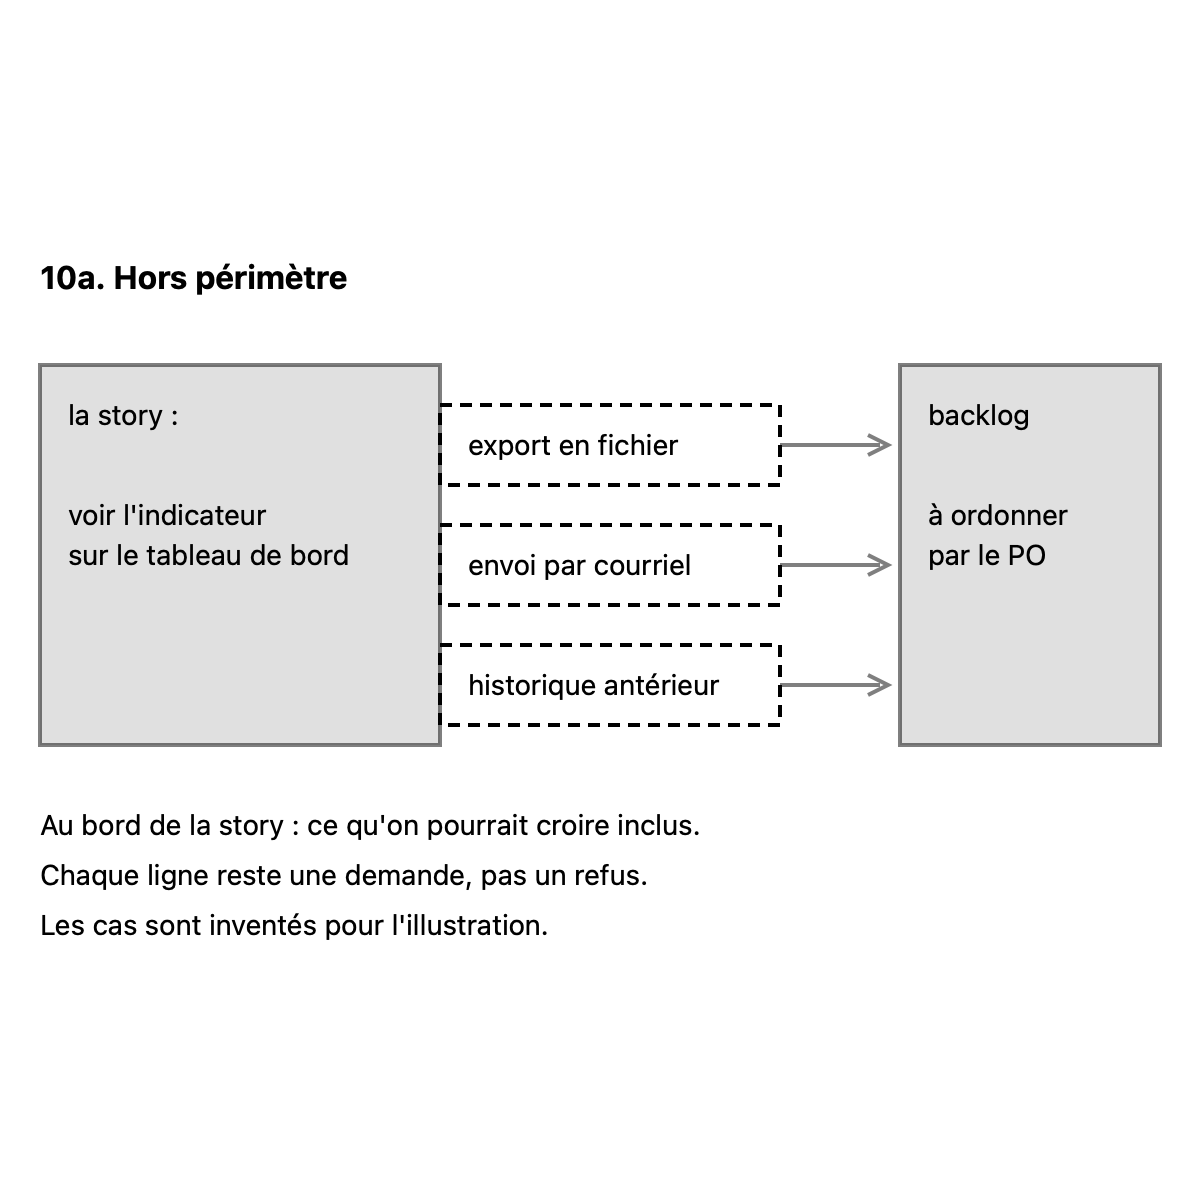
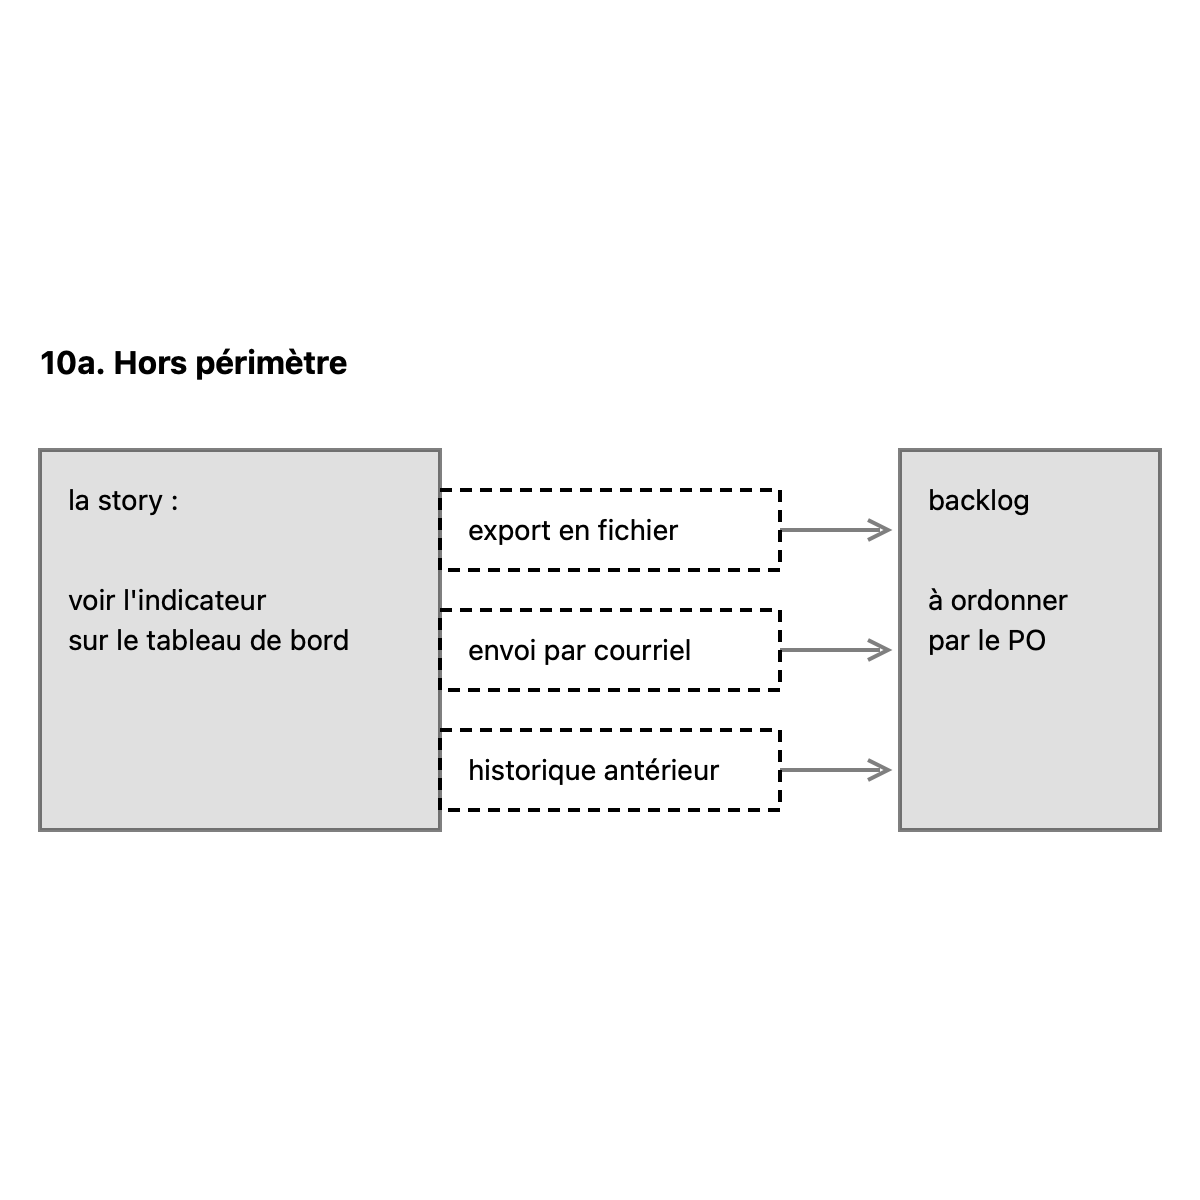
course(course:parcours-po): fix review findings of concept 10

diff --git a/construction/notes/S1-10-10-report.md b/construction/notes/S1-10-10-report.md
@@ -1,6 +1,6 @@
 # Migration report: concept 10
 
-Workflow `migrate-concept`, course `parcours-po`, concept folder `concepts/10-hors-perimetre-dependances/`. Paths in the course folder are relative to it; the old files are named from their repository folder (`parcours-po`, `parcours-po-website`).
+Workflow `migrate-concept` (run `wf_409f303c-4a2`), course `parcours-po`, concept folder `concepts/10-hors-perimetre-dependances/`. Paths in the course folder are relative to it; the old files are named from their repository folder (`parcours-po`, `parcours-po-website`).
 Old files: `parcours-po/course/concepts/10-hors-perimetre-dependances.md` (CF), `parcours-po/course/sources/10-hors-perimetre-dependances.md` (SF), `parcours-po-website/src/content/concepts/fr/10-hors-perimetre-dependances.mdx` (MDX), `components/schemas/Schema10.astro` (ASTRO).
 
 ## Summary
@@ -26,21 +26,22 @@ Each old diagram was inventoried (what it shows, by idea), drawn anew from its i
 
 ### `components/schemas/Schema10.astro`
 
-Figure legende, in « L'essentiel »: « En haut, le hors périmètre : au bord de la story, ce qu’on pourrait croire inclus ; chaque ligne devient une demande au backlog. En bas, les dépendances : dans une équipe, le PO ordonne ; entre deux équipes, chaque PO ordonne le sien et les deux s’accordent sur l’ordre, et on n’escalade que si cela bloque. Les cas sont inventés pour l’illustration. »
+Figure legende, in « L'essentiel »: « Le hors périmètre : au bord de la story, ce qu’on pourrait croire inclus ; chaque ligne devient une demande au backlog. En bas, les dépendances : dans une équipe, le PO ordonne ; entre deux équipes, chaque PO ordonne le sien et les deux s’accordent sur l’ordre, et on n’escalade que si cela bloque. Les cas sont inventés pour l’illustration. »
 
 Split by idea: 2 diagrams.
 
 Its sentences, where the inventory sends them (M11):
-- « En haut, le hors périmètre : au bord de la story, ce qu'on pourrait croire inclus ; chaque ligne devient une demande au backlog. »: caption of hors-perimetre.svg
-- « En bas, les dépendances : dans une équipe, le PO ordonne ; entre deux équipes, chaque PO ordonne le sien et les deux s'accordent sur l'ordre, et on n'escalade que si cela bloque. »: caption of dependances.svg
+- « Le hors périmètre : au bord de la story, ce qu'on pourrait croire inclus ; chaque ligne devient une demande au backlog. »: caption of hors-perimetre.svg
+- « Les dépendances : dans une équipe, le PO ordonne ; entre deux équipes, chaque PO ordonne le sien et les deux s'accordent sur l'ordre, et on n'escalade que si cela bloque. »: caption of dependances.svg
 - « Les cas sont inventés pour l'illustration. »: labels of hors-perimetre.svg
 
 #### hors-perimetre.svg
 
 - Title: Le hors périmètre d'une story
-- Caption: En haut, le hors périmètre : au bord de la story, ce qu'on pourrait croire inclus ; chaque ligne devient une demande au backlog.
+- Caption: Le hors périmètre : au bord de la story, ce qu'on pourrait croire inclus ; chaque ligne devient une demande au backlog (cas inventé pour l'illustration).
 - Sub-concept: 10a
-- Idea: « En haut, le hors périmètre : au bord de la story, ce qu’on pourrait croire inclus ; chaque ligne devient une demande au backlog. » (MDX « L'essentiel », legende de la Figure)
+- Review fix: the three note sentences of the diagram were removed (7.2 principle 6); their content moved to the caption.
+- Idea: « Le hors périmètre : au bord de la story, ce qu’on pourrait croire inclus ; chaque ligne devient une demande au backlog. » (MDX « L'essentiel », legende de la Figure)
 
 | Id | Element | Labels | Role | State |
 |---|---|---|---|---|
@@ -50,9 +51,6 @@ Its sentences, where the inventory sends them (M11):
 | E4 | une ligne du hors périmètre, au bord de la story : l'envoi par courriel | « envoi par courriel » | subject | none |
 | E5 | une ligne du hors périmètre, au bord de la story : l'historique antérieur | « historique antérieur » | subject | none |
 | E6 | le backlog, où chaque ligne devient une demande que le PO ordonne | « backlog », « à ordonner par le PO » | context | none |
-| E7 | note : où se tiennent les lignes | « Au bord de la story : ce qu'on pourrait croire inclus. » | text | none |
-| E8 | note : le statut d'une ligne | « Chaque ligne reste une demande, pas un refus. » | text | none |
-| E9 | note : les cas sont inventés | « Les cas sont inventés pour l'illustration. » | text | none |
 
 Relations:
 - E3, E4 et E5 se tiennent au bord de E2, à l'extérieur : ce qu'on pourrait croire inclus dans la story
@@ -63,9 +61,9 @@ Key of the inventory: none. Key drawn: none.
 #### dependances.svg
 
 - Title: Les dépendances dans une équipe et entre deux équipes
-- Caption: En bas, les dépendances : dans une équipe, le PO ordonne ; entre deux équipes, chaque PO ordonne le sien et les deux s'accordent sur l'ordre, et on n'escalade que si cela bloque.
+- Caption: Les dépendances : dans une équipe, le PO ordonne ; entre deux équipes, chaque PO ordonne le sien et les deux s'accordent sur l'ordre, et on n'escalade que si cela bloque (cas inventés pour l'illustration).
 - Sub-concept: 10b
-- Idea: « En bas, les dépendances : dans une équipe, le PO ordonne ; entre deux équipes, chaque PO ordonne le sien et les deux s’accordent sur l’ordre, et on n’escalade que si cela bloque. » (MDX « L'essentiel », legende de la Figure)
+- Idea: « Les dépendances : dans une équipe, le PO ordonne ; entre deux équipes, chaque PO ordonne le sien et les deux s’accordent sur l’ordre, et on n’escalade que si cela bloque. » (MDX « L'essentiel », legende de la Figure)
 
 | Id | Element | Labels | Role | State |
 |---|---|---|---|---|

diff --git a/courses/parcours-po/concepts/10-hors-perimetre-dependances/sources.md b/courses/parcours-po/concepts/10-hors-perimetre-dependances/sources.md
@@ -9,7 +9,7 @@ ils n'ont pas de source.
 
 | Affirmation (section de `concept.md` ou de `teaching.md`) | Source | Ce qui a été vérifié | Nature |
 |---|---|---|---|
-| Le Scrum Guide ne parle pas de hors périmètre ni de rubrique « Hors périmètre » dans une story : c'est un choix d'école (Consensus et choix d'école, 10a) | [S1] | Texte web téléchargé et cherché le 2026-10-22 : « out of scope » 0 occurrence ; « story » 0 (déjà relevé dans `05-user-story.md`). « scope » n'apparaît que pour le sprint : « Scope may be clarified and renegotiated with the Product Owner as more is learned » et « negotiate the scope of the Sprint Backlog within the Sprint » | consensus |
+| Le Scrum Guide ne parle pas de hors périmètre ni de rubrique « Hors périmètre » dans une story : c'est un choix d'école (Consensus et choix d'école, 10a) | [S1] | Texte web téléchargé et cherché le 2026-10-22 : « out of scope » 0 occurrence ; « story » 0 (déjà relevé dans `05-user-story.md`). « scope » n'apparaît que pour le sprint : « Scope may be clarified and renegotiated with the Product Owner as more is learned » et « negotiate the scope of the Sprint Backlog within the Sprint » | école |
 | Le Scrum Guide n'impose aucune forme aux éléments du backlog : chaque équipe choisit la sienne (Consensus et choix d'école) | [S1] | « adding details, such as a description, order, and size. Attributes often vary with the domain of work » (déjà dans `05-user-story.md`) | consensus |
 | Un élément choisi au Sprint Planning a en général été précisé avant ; le contenu du sprint peut encore se clarifier pendant le sprint, avec le PO : consensus (Consensus et choix d'école) | [S1] | Les éléments faisables en un sprint sont « ready for selection in a Sprint Planning event. They usually acquire this degree of transparency after refining activities ». Le SG admet aussi qu'on clarifie pendant le sprint (« Scope may be clarified and renegotiated »). « Clarifier ce qui n'y est pas » est une déduction du cours. Le terme « refinement » ne s'emploie pas dans le concept (renvoi au concept 15) | consensus |
 | Écrire ce que la story ne fait pas alors qu'on pourrait s'y attendre ; chaque ligne reste une demande, qui pourra être vue plus tard (10a1 Explication, Pièges) | [S2] | Atlassian, modèle de PRD, section « What we're not doing » : « clearly calling out what you're not doing. Flag things that are out of scope at the moment, but might be considered at a later time ». Source marketing, au niveau d'un document d'exigences (feature ou version), pas d'une story : appui pour l'idée, pas pour la rubrique de story | |

diff --git a/courses/parcours-po/concepts/10-hors-perimetre-dependances/teaching.md b/courses/parcours-po/concepts/10-hors-perimetre-dependances/teaching.md
@@ -10,8 +10,8 @@
      stories de Charlotte ? ») ;
    - **10b2** envers une autre équipe : s'accorder avec le PO de cette équipe (« Le canal
      d'Abba dépend de l'équipe appli ») ; si l'accord ne se fait pas, escalade : renvoi au
-     concept 14, sans l'enseigner. L'accès à la table des locations, dépendance envers la DSI, est l'exemple du
-     concept 11b.
+     concept 14, sans l'enseigner. L'accès à la table des locations, dépendance envers la DSI,
+     est l'exemple du concept 11b.
 
 Déjà enseigné, à rappeler sans le réenseigner : V et I d'INVEST, les Developers estiment la
 taille (concept 7) ; une story tient dans un sprint (concept 4) ; le PO ordonne seul le backlog
@@ -23,9 +23,8 @@ avant le sprint et revue de sprint en détail (15).
 
 ## Faits du fil rouge utilisés
 
-la story de tournée (concept 6) ; Théo confirme ou infirme sur
-place une panne signalée ; un vélo signalé en panne reste louable, son blocage à la location a
-été mis hors périmètre de la story de tournée et Maud le réclame ; un vélo n'est plus louable
+La story de tournée (concept 6) ; Théo confirme ou infirme sur place une panne signalée ;
+un vélo signalé en panne reste louable, son blocage à la location a été mis hors périmètre de la story de tournée et Maud le réclame ; un vélo n'est plus louable
 quand un technicien l'a retiré du service après constat ; les signalements par téléphone ne sont
 pas saisis dans l'appli ; Charlotte veut le nombre de locations par quartier sur le mois, puis la
 comparaison au même mois de l'an dernier ; l'accès à la table des locations n'est pas obtenu

diff --git a/courses/parcours-po/concepts/10-hors-perimetre-dependances/concept.md b/courses/parcours-po/concepts/10-hors-perimetre-dependances/concept.md
@@ -34,11 +34,11 @@ neighbors:
 diagrams:
   - file: "hors-perimetre.svg"
     title: "Le hors périmètre d'une story"
-    caption: "En haut, le hors périmètre : au bord de la story, ce qu'on pourrait croire inclus ; chaque ligne devient une demande au backlog."
+    caption: "Le hors périmètre : au bord de la story, ce qu'on pourrait croire inclus ; chaque ligne devient une demande au backlog (cas inventé pour l'illustration)."
     subconcept: "10a"
   - file: "dependances.svg"
     title: "Les dépendances dans une équipe et entre deux équipes"
-    caption: "En bas, les dépendances : dans une équipe, le PO ordonne ; entre deux équipes, chaque PO ordonne le sien et les deux s'accordent sur l'ordre, et on n'escalade que si cela bloque."
+    caption: "Les dépendances : dans une équipe, le PO ordonne ; entre deux équipes, chaque PO ordonne le sien et les deux s'accordent sur l'ordre, et on n'escalade que si cela bloque (cas inventés pour l'illustration)."
     subconcept: "10b"
 ---
 
